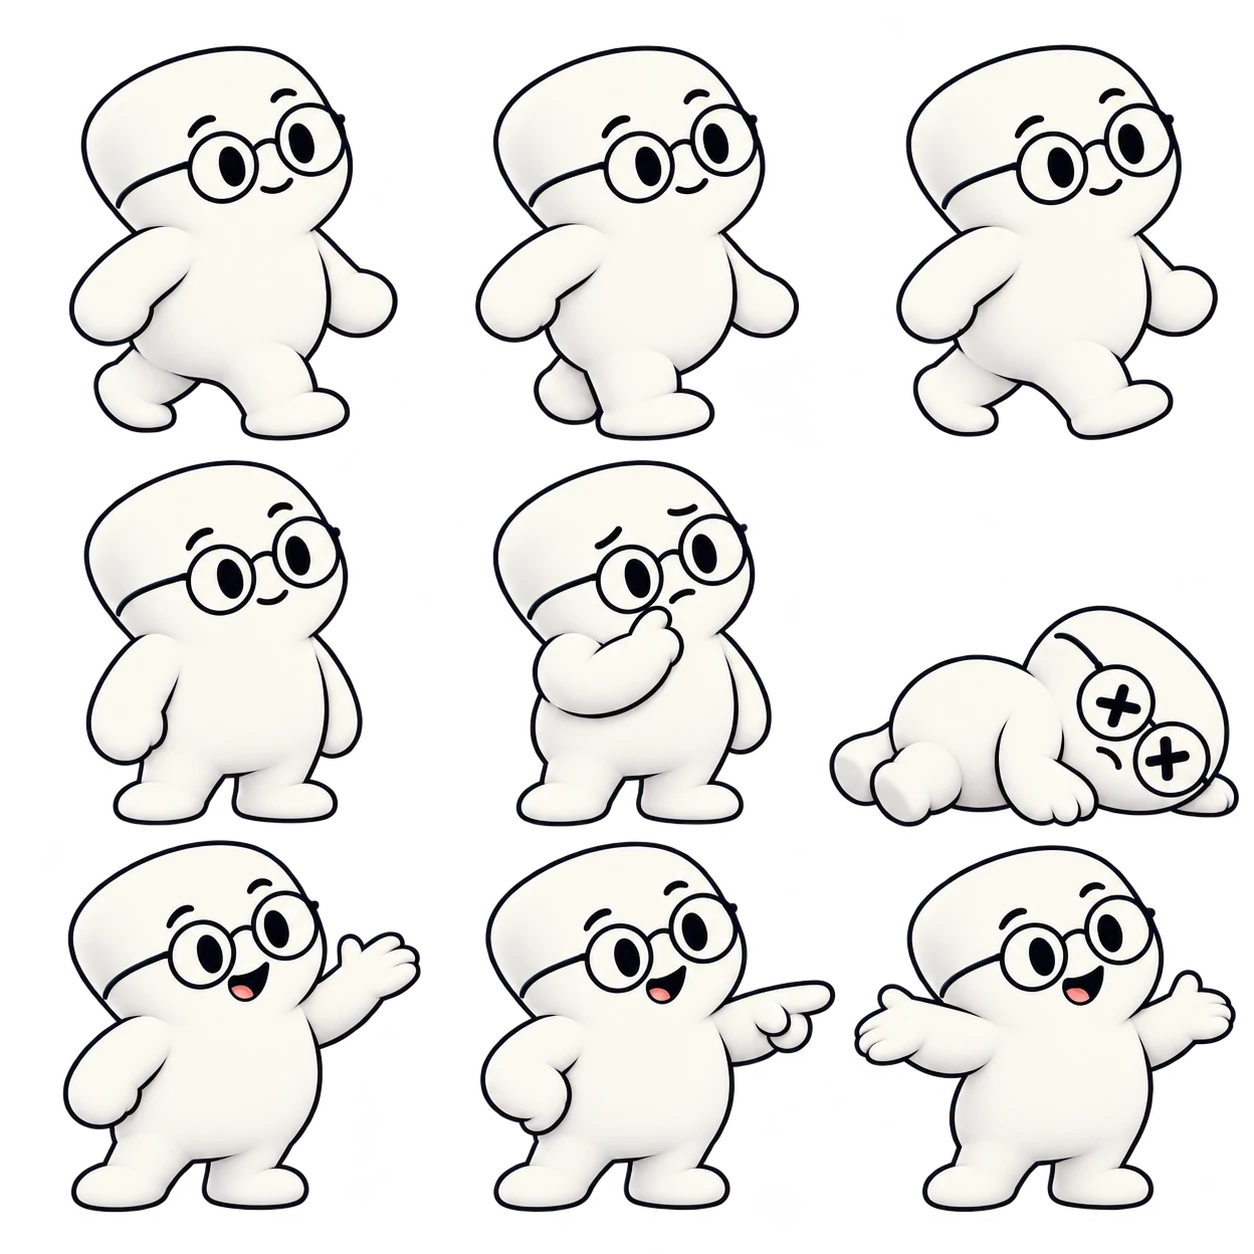
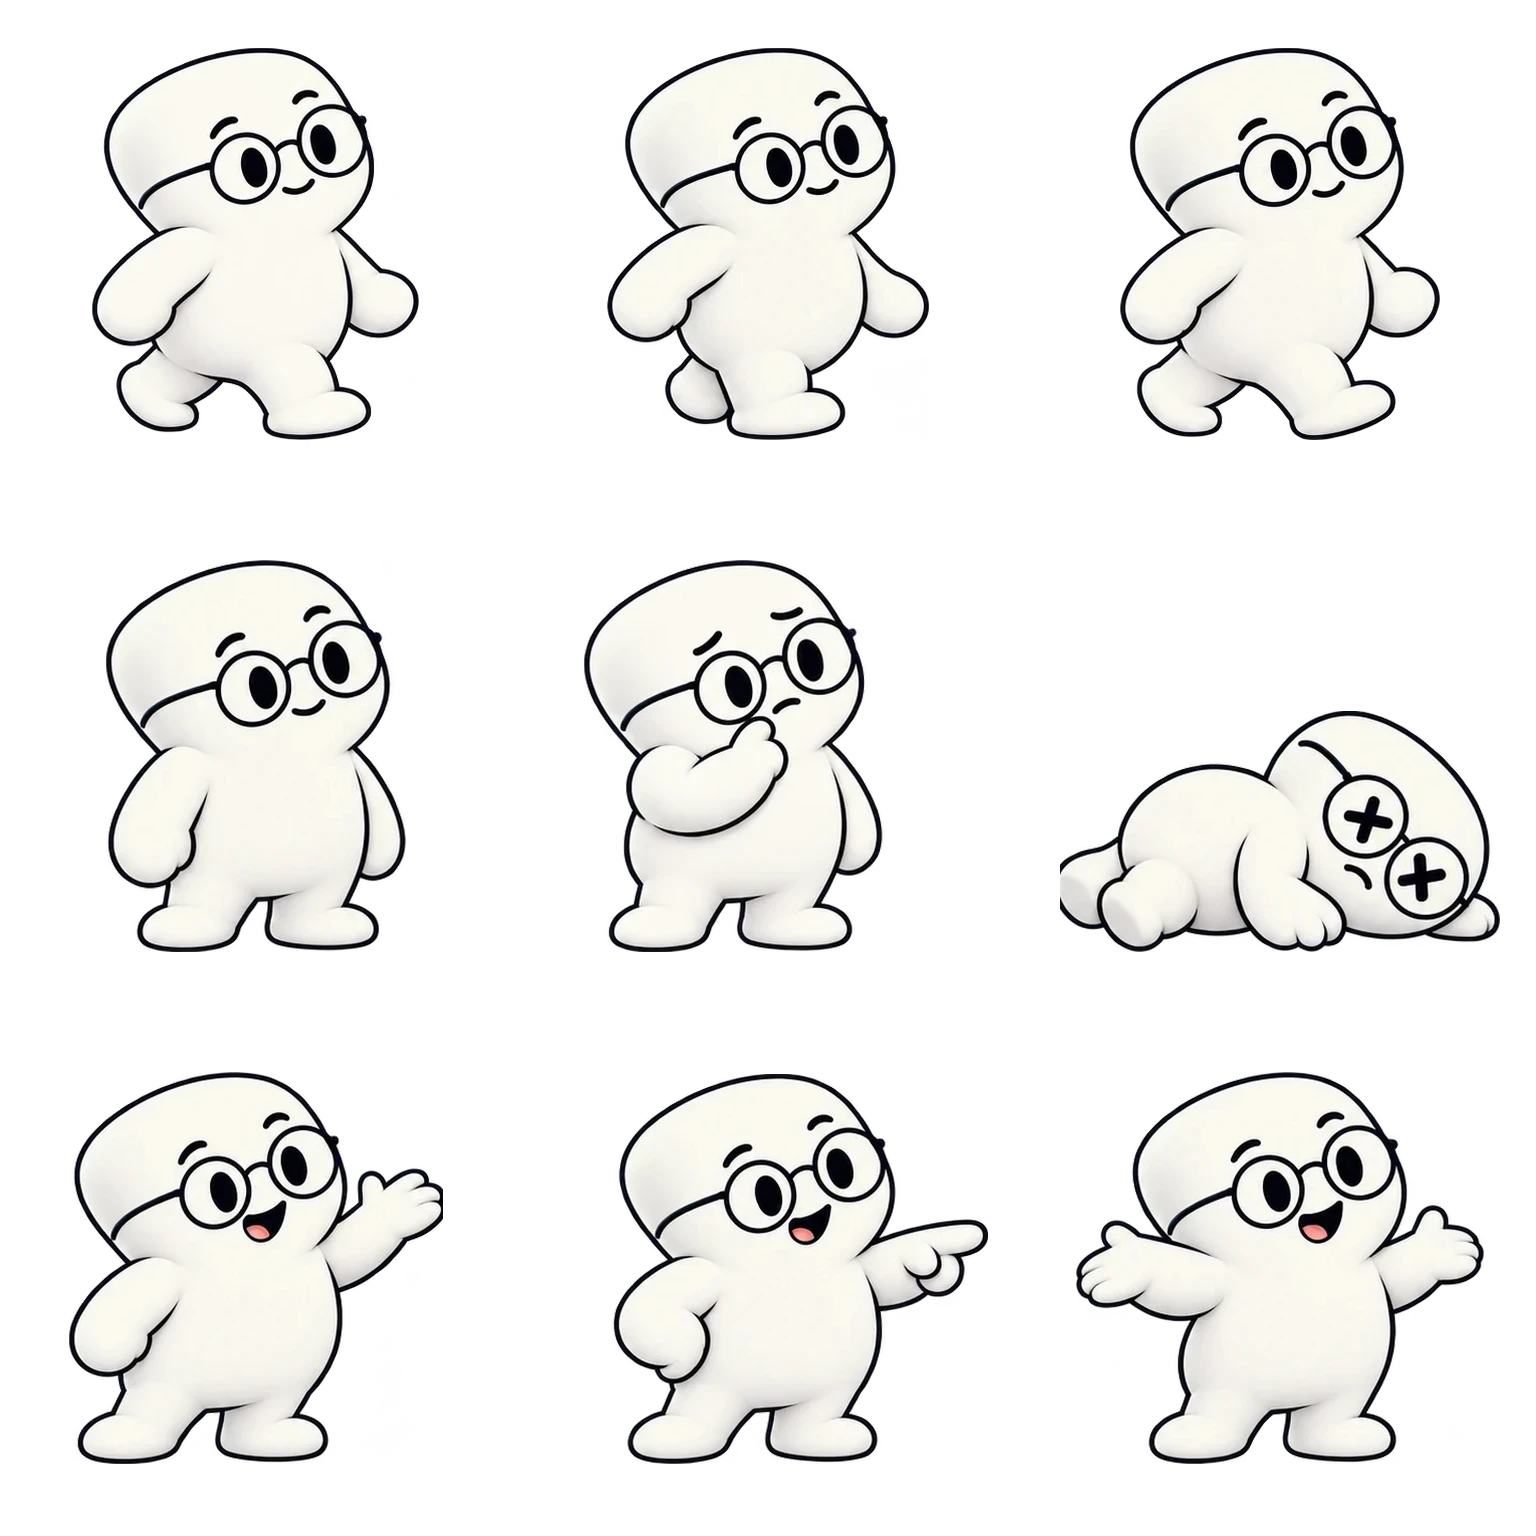
fix(about): clean and realign the skills mascot sheets
Generated poses crossed their cell edges, so fragments of neighbouring poses showed beside the mascot. Register all poses on one baseline and remove the fragments.

diff --git a/src/shared/mascot/WORKER-ATLAS.md b/src/shared/mascot/WORKER-ATLAS.md
@@ -10,10 +10,13 @@ its normal appearance without the tuft:
 - `skills-backend.webp`: glasses and a mechanic's wrench.
 - `skills-frontend.webp`: glasses, an open navy jacket and a lime bow tie.
 
-These transparent 1254 × 1254 sheets use three columns and three rows: walking
+These transparent 1536 × 1536 sheets use three columns and three rows: walking
 frames; standing/thinking/fallen; presenting/explaining/welcoming. The runtime
-uses the final row for reactions. The Backend sheet's middle-left pose holds
-the wrench near the chin. Accessories are integrated pose by pose.
+uses the final row for reactions. The Backend sheet's middle pose holds the
+wrench near the chin. Accessories are integrated pose by pose. Every cell is
+registered with its feet at 85.7% of the cell height. In the Glasses and Frontend
+sheets, the fallen pose loses part of a foot and Frontend's welcoming pose part
+of a hand: the original generation crossed the cell edge.
 
 The built-in ImageGen tool used the existing walking and reaction sheets and
 the approved costume study as references. The brief preserved body proportions,
